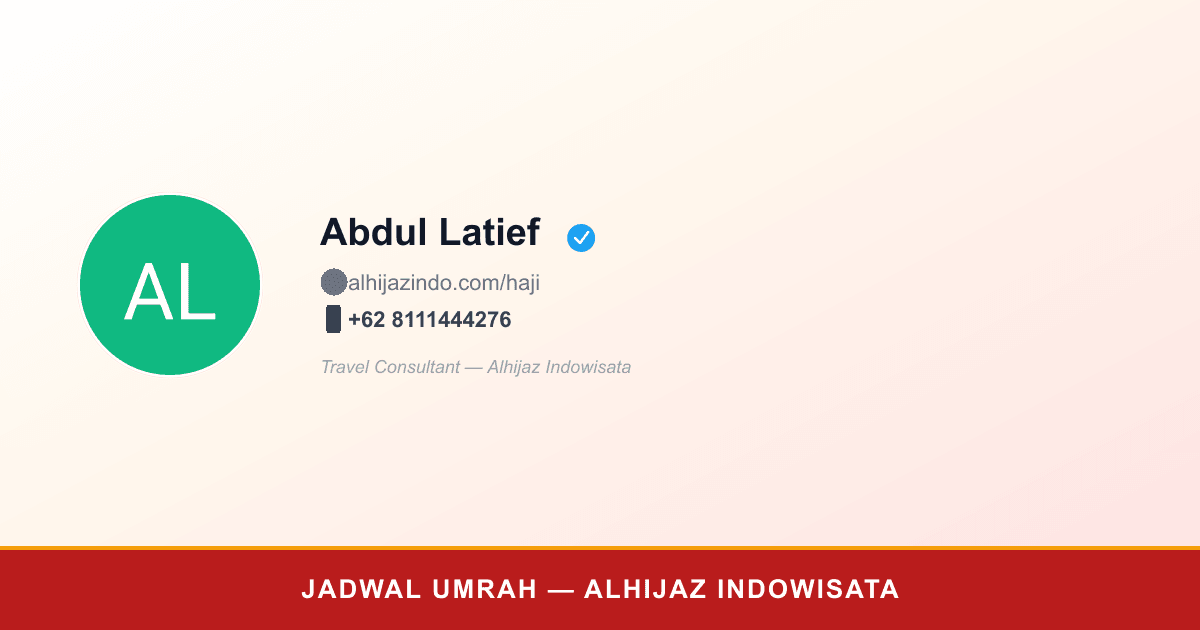
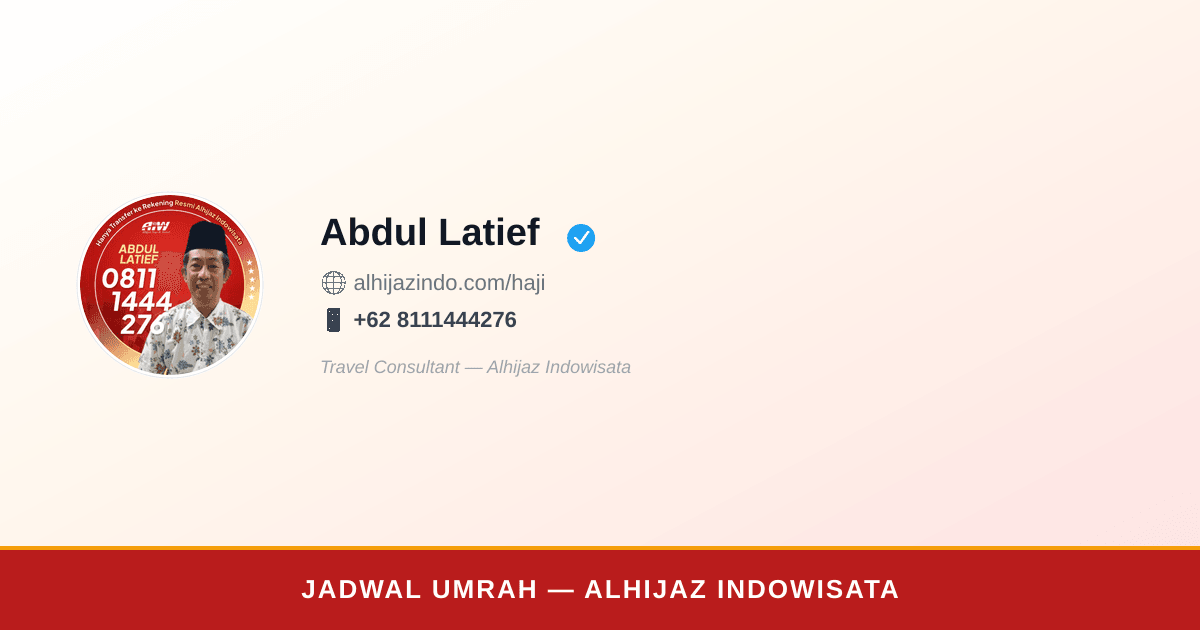
Inline kurs image assets to fix Telegram broadcast timeouts
The per-agent kurs image broadcast was timing out (page.setContent
networkidle 20s) for all 22 agents this morning because the template
loaded Google Fonts, ui-avatars.com, and the local logo over HTTP.
When any of those stalled, the whole render fell back to text.

- Embed Inter weights 600-900 as base64 woff2 from public/fonts/brochure
- Embed logo-alhijaz-besar.svg as a data URI
- Replace ui-avatars fallback with an inline SVG initials avatar
- Pre-fetch the agent photo in Node (4s timeout) -> data URI, so the
  Playwright page makes zero outbound network calls
- Switch waitUntil from 'networkidle' (20s) to 'load' (15s)

Also adds scripts/resend-kurs-all.mjs as a one-off rebroadcast helper.

diff --git a/public/maintenance.html b/public/maintenance.html
@@ -1,0 +1,67 @@
+<!DOCTYPE html>
+<html lang="id">
+<head>
+  <meta charset="UTF-8">
+  <meta name="viewport" content="width=device-width, initial-scale=1.0">
+  <title>Maintenance - Alhijaz Indowisata</title>
+  <style>
+    * { margin: 0; padding: 0; box-sizing: border-box; }
+    body {
+      font-family: -apple-system, BlinkMacSystemFont, 'Segoe UI', Roboto, sans-serif;
+      background: linear-gradient(135deg, #0f172a 0%, #1e293b 100%);
+      color: #e2e8f0;
+      min-height: 100vh;
+      display: flex;
+      align-items: center;
+      justify-content: center;
+      padding: 20px;
+    }
+    .container {
+      text-align: center;
+      max-width: 500px;
+    }
+    .icon {
+      font-size: 64px;
+      margin-bottom: 24px;
+    }
+    h1 {
+      font-size: 28px;
+      font-weight: 700;
+      margin-bottom: 12px;
+      color: #f8fafc;
+    }
+    p {
+      font-size: 16px;
+      line-height: 1.6;
+      color: #94a3b8;
+      margin-bottom: 8px;
+    }
+    .highlight {
+      color: #38bdf8;
+      font-weight: 600;
+    }
+    .divider {
+      width: 60px;
+      height: 3px;
+      background: #38bdf8;
+      margin: 24px auto;
+      border-radius: 2px;
+    }
+    .footer {
+      margin-top: 32px;
+      font-size: 13px;
+      color: #64748b;
+    }
+  </style>
+</head>
+<body>
+  <div class="container">
+    <div class="icon">&#128736;&#65039;</div>
+    <h1>Sedang Maintenance</h1>
+    <div class="divider"></div>
+    <p>Sistem sedang dalam perbaikan untuk meningkatkan layanan kami.</p>
+    <p>Silakan kembali dalam beberapa saat.</p>
+    <p class="footer">Alhijaz Indowisata</p>
+  </div>
+</body>
+</html>
